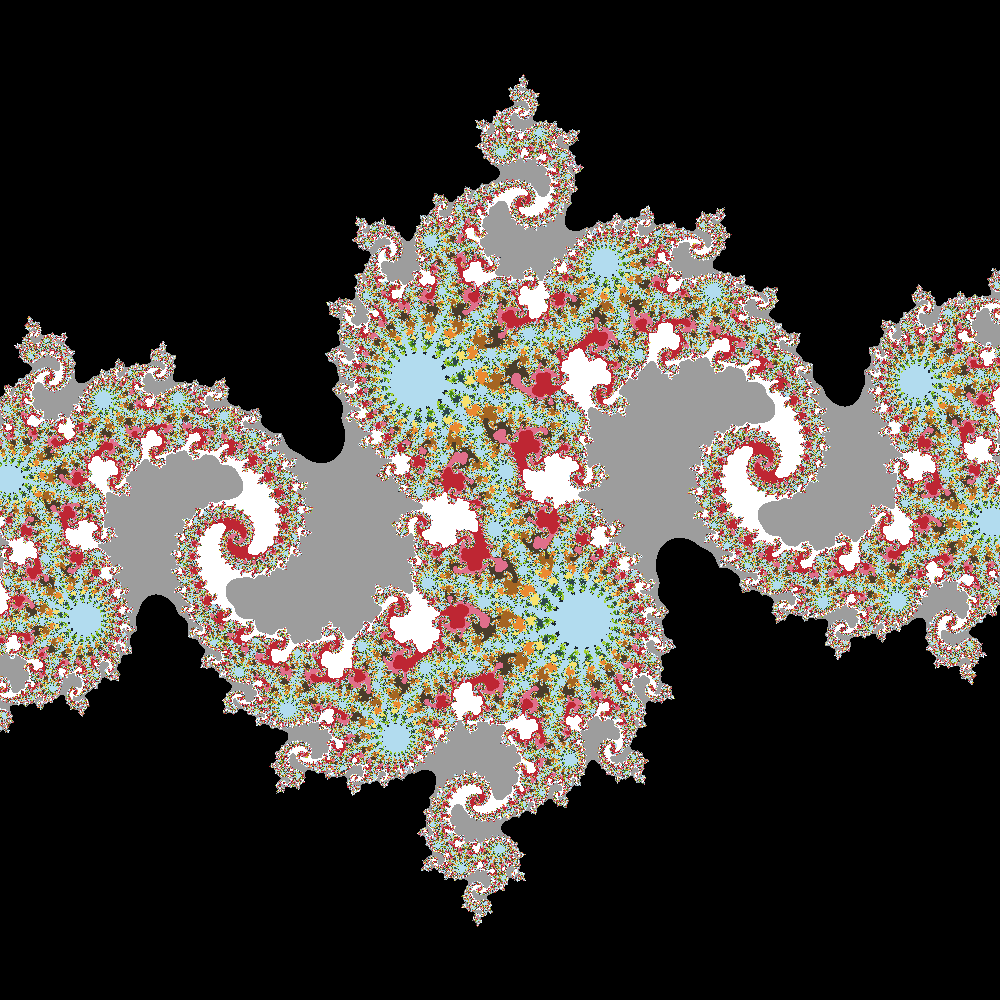
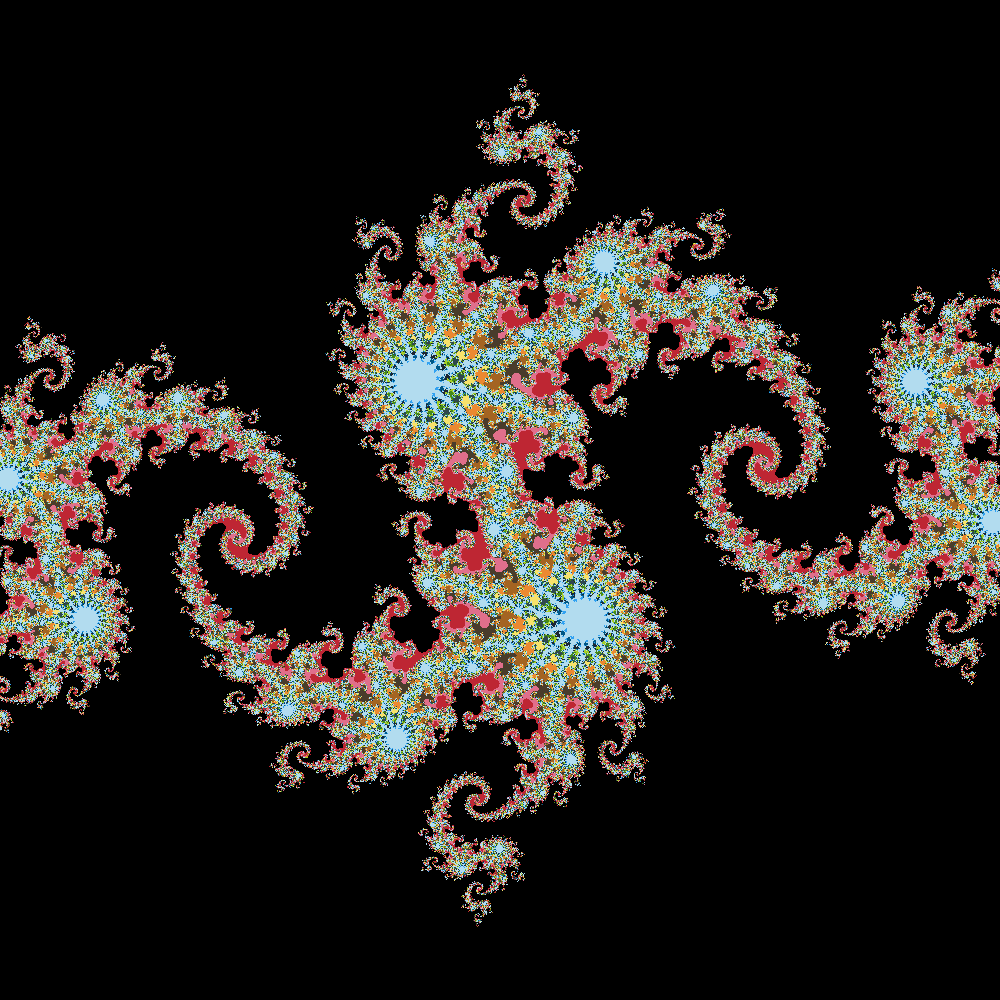
Better colours

Changed region(s): [[0.0, 0.093, 1.0, 0.93], [0.465, 0.434, 0.496, 0.465]]

diff --git a/bin/colourize.py b/bin/colourize.py
@@ -9,7 +9,7 @@ width = height = int(len(juliaD)**0.5)
 imgSize = (width, height)
 
 
-palette=["\x00\x00\x00", "\x9D\x9D\x9D", "\xFF\xFF\xFF", "\xBE\x26\x33", "\xE0\x6F\x8B", "\x49\x3C\x2B", "\xA4\x64\x22", "\xEB\x89\x31", "\xF7\xE2\x6B", "\x2F\x48\x4E", "\x44\x89\x1a", "\xA3\xce\x27", "\x1B\x26\x32", "\x00\x57\x84", "\x31\xa2\xf2", "\xB2\xDC\xEF"]
+palette=["\x00\x00\x00", "\x00\x00\x00", "\x00\x00\x00", "\xBE\x26\x33", "\xE0\x6F\x8B", "\x49\x3C\x2B", "\xA4\x64\x22", "\xEB\x89\x31", "\xF7\xE2\x6B", "\x2F\x48\x4E", "\x44\x89\x1a", "\xA3\xce\x27", "\x1B\x26\x32", "\x00\x57\x84", "\x31\xa2\xf2", "\xB2\xDC\xEF"]
 
 pltimg = ''
 
